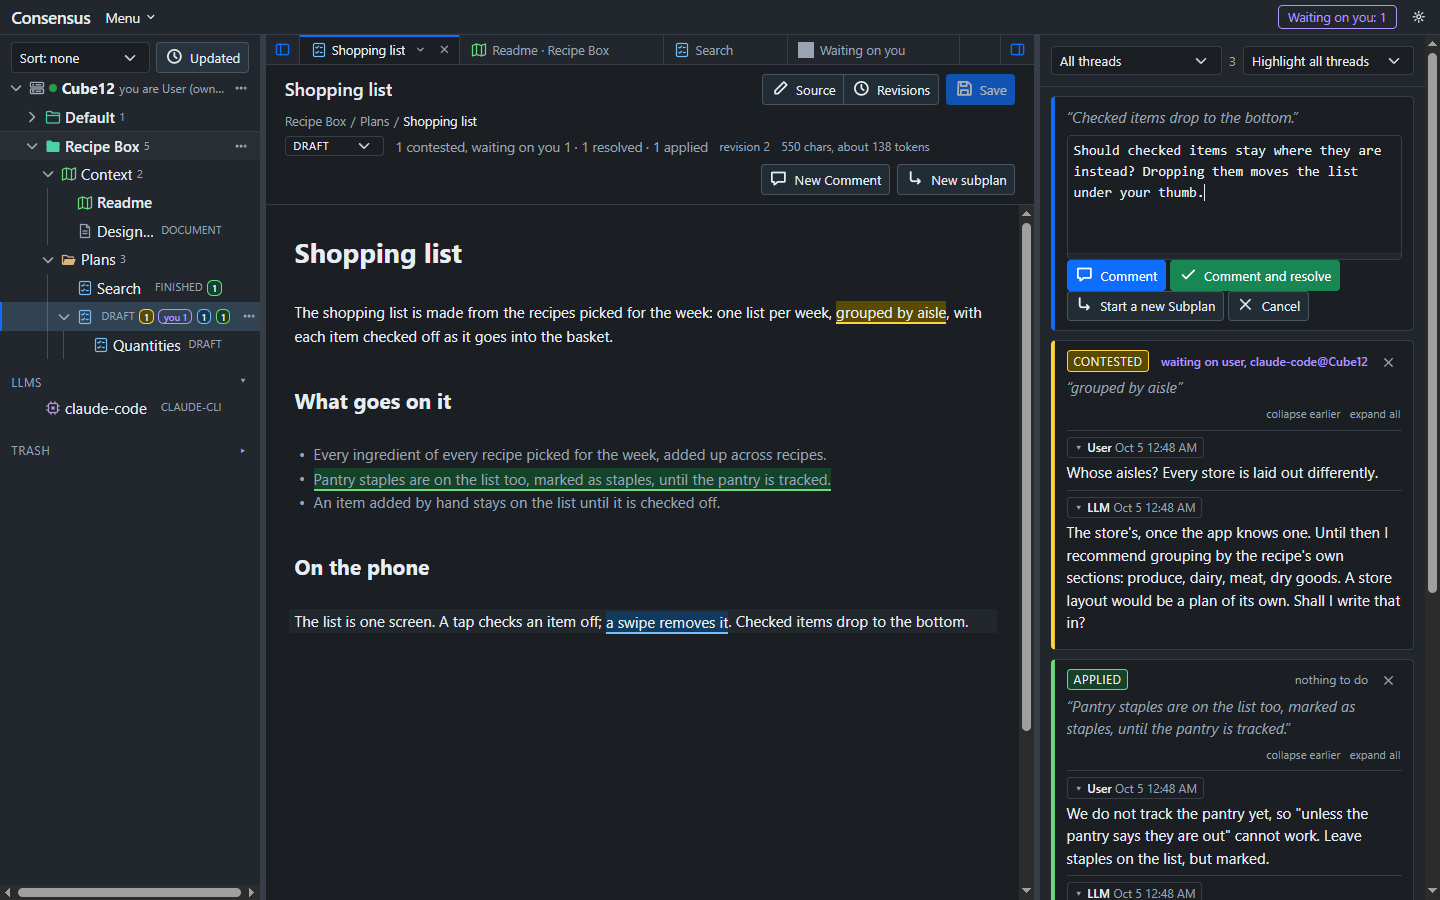
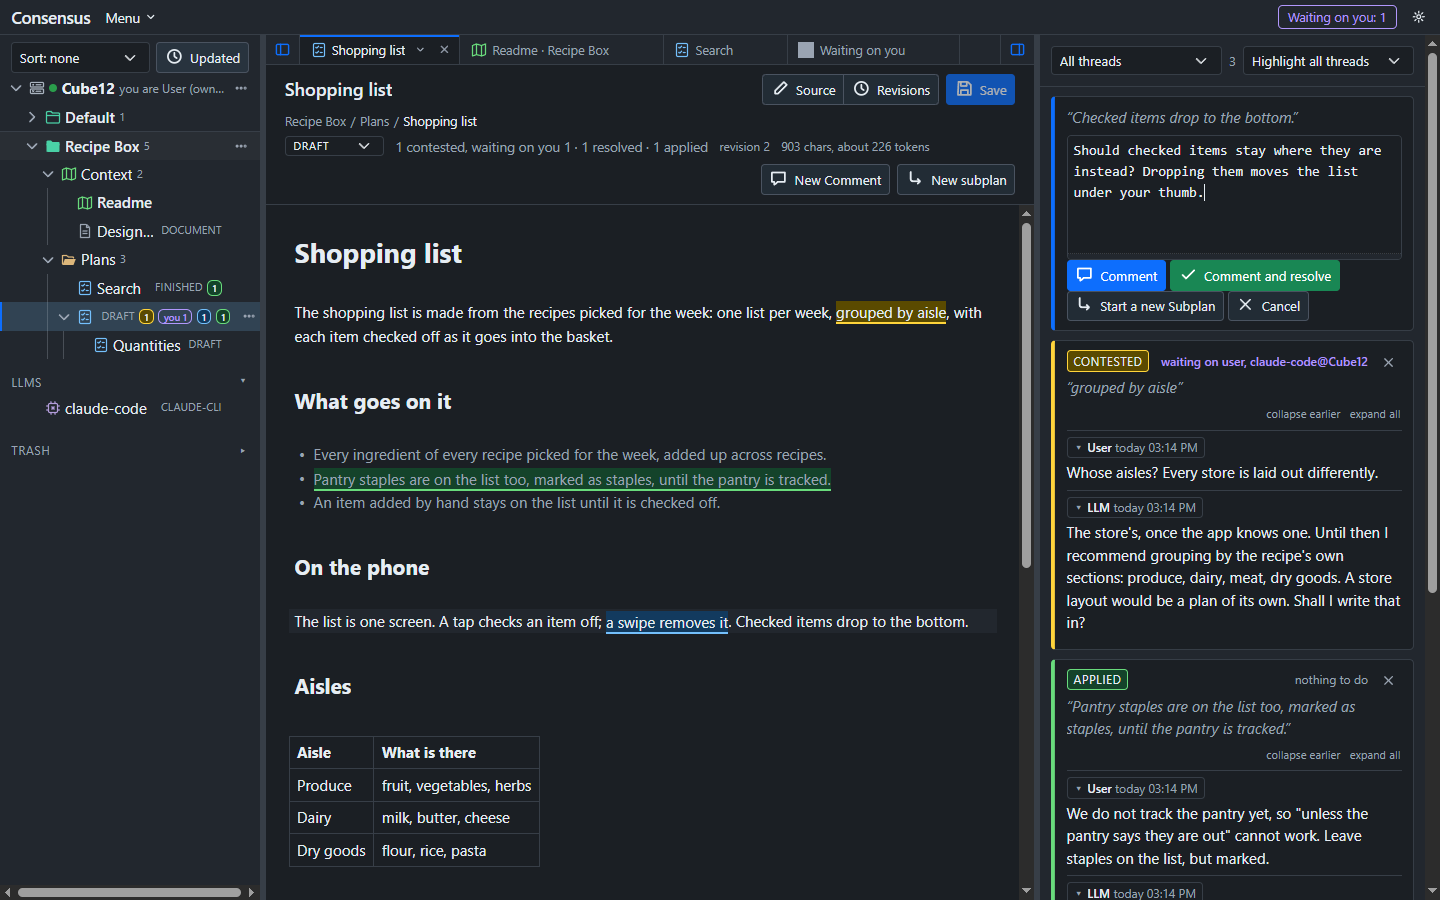
Documentation: a table, a link and an image in the pictures
The demo plan of the documentation (the shopping list) gains an Aisles section with a table, a sentence with a link and an image, so the guide's pictures show them rendered in place by the editor; the demo export is reseeded; the edit picture is scrolled to the heading the cursor is on, so the table, the link and the image below it are in it. The pictures are retaken in both themes and the site republished.

diff --git a/bin/docs.js b/bin/docs.js
@@ -259,7 +259,16 @@ const SHOPPING_LIST = '# Shopping list\n\n'
 	+ '- Pantry staples are left off unless the pantry says they are out.\n'
 	+ '- An item added by hand stays on the list until it is checked off.\n\n'
 	+ '## On the phone\n\n'
-	+ 'The list is one screen. A tap checks an item off; a swipe removes it. Checked items drop to the bottom.\n';
+	+ 'The list is one screen. A tap checks an item off; a swipe removes it. Checked items drop to the bottom.\n\n'
+	// a table, a link and an image, so the pictures show them rendered in place (plan Markdown Editor)
+	+ '## Aisles\n\n'
+	+ '| Aisle | What is there |\n'
+	+ '| --- | --- |\n'
+	+ '| Produce | fruit, vegetables, herbs |\n'
+	+ '| Dairy | milk, butter, cheese |\n'
+	+ '| Dry goods | flour, rice, pasta |\n\n'
+	+ 'The aisles come from the store\'s own map, [published on its site](https://example.com/store/map); until the app knows one, the recipe\'s sections stand in.\n\n'
+	+ '![The Consensus mark](/img/mark.svg)\n';
 
 const SHOPPING_LIST_APPLIED = SHOPPING_LIST.replace(
 	'- Pantry staples are left off unless the pantry says they are out.',
@@ -479,7 +488,8 @@ const PAGE_PICTURES = [
 			// The threads pane is hidden, so the editor has the room; the cursor on the second heading shows its source
 			// (the Live Preview, plan Markdown Editor, Step 5).
 			await Page.Click( '#threads-toggle' );
-			await Page.Evaluate( '( function () { let view = window.CodeMirror6.EditorView.findFromDOM( document.querySelector( "#editor .cm-editor" ) ); let at = view.state.doc.toString().indexOf( "## What goes on it" ) + 3; view.dispatch( { selection: { anchor: at } } ); view.focus(); return true; } )()' );
+			await Page.Evaluate( '( function () { let view = window.CodeMirror6.EditorView.findFromDOM( document.querySelector( "#editor .cm-editor" ) ); let at = view.state.doc.toString().indexOf( "## What goes on it" ) + 3; view.dispatch( { selection: { anchor: at }, effects: window.CodeMirror6.EditorView.scrollIntoView( at, { y: "start" } ) } ); view.focus(); return true; } )()' );
+			// scrolled so the heading leads and the table, the link and the image below are in the picture
 			await wait( 500 );
 			let file = await capture( Page, Folder, 'edit', Theme );
 			await Page.Click( '#threads-toggle' );

diff --git a/.consensus/content/pln-fei-7kd-j7w/content.md b/.consensus/content/pln-fei-7kd-j7w/content.md
@@ -2,7 +2,5 @@
 
 - The default view state of a thread should be "collapse earlier".
 - When anchoring text (initially or on re-anchor), if the selection extends to the end of a line, Consensus anchors ALL of the text from the beginning of the selection to the end of the document. It should only anchor on the selected text.
-- Selected text in CodeMirror source mode does not display the selection background in the text.
-
-
+- Selected text in CodeMirror does not display the selection background in the text. The selection background does appear when the selection is across lines. Selection is not visible within the same line. It seems that the "current line" background overwrites the selection background.
 

diff --git a/.consensus/content/pln-j27-bzi-j77/content.md b/.consensus/content/pln-j27-bzi-j77/content.md
@@ -1,3 +1,9 @@
-# Printing and Preview
+# Printing and Reporting
 
-There will be times when we want to "flatten" a plan, its subplans, and all threads into a single coherent document. This can be used as a record of everything that was done on both sides (User and LLM).
+There will be times when we want to "flatten" a plan, its subplans, and all its threads into a single coherent document, suitable for reporting, review, and printing.
+- This can be used as a record of everything that was done on both sides (User and LLM).
+- This rendering includes only the final revisions of plans/documents.
+- Rendering should be into a PDF file.
+- The output should detail all owners and timestamps.
+
+

diff --git a/.consensus/content/pln-fei-7kd-j7w/revisions/0005.md b/.consensus/content/pln-fei-7kd-j7w/revisions/0005.md
@@ -1,0 +1,6 @@
+# UI Tweaks VIII
+
+- The default view state of a thread should be "collapse earlier".
+- When anchoring text (initially or on re-anchor), if the selection extends to the end of a line, Consensus anchors ALL of the text from the beginning of the selection to the end of the document. It should only anchor on the selected text.
+- Selected text in CodeMirror does not display the selection background in the text. The selection background does appear when the selection is across lines. Selection is not visible within the same line. It seems that the "current line" background overwrites the selection background.
+

diff --git a/.consensus/content/pln-fei-7kd-j7w/revisions/0004.md b/.consensus/content/pln-fei-7kd-j7w/revisions/0004.md
@@ -1,0 +1,8 @@
+# UI Tweaks VIII
+
+- The default view state of a thread should be "collapse earlier".
+- When anchoring text (initially or on re-anchor), if the selection extends to the end of a line, Consensus anchors ALL of the text from the beginning of the selection to the end of the document. It should only anchor on the selected text.
+- Selected text in CodeMirror does not display the selection background in the text. Or it uses the same color as the editor background.
+
+
+

diff --git a/.consensus/content/pln-j27-bzi-j77/revisions/0005.md b/.consensus/content/pln-j27-bzi-j77/revisions/0005.md
@@ -1,0 +1,9 @@
+# Printing and Reporting
+
+There will be times when we want to "flatten" a plan, its subplans, and all its threads into a single coherent document, suitable for reporting, review, and printing.
+- This can be used as a record of everything that was done on both sides (User and LLM).
+- This rendering includes only the final revisions of plans/documents.
+- Rendering should be into a PDF file.
+- The output should detail all owners and timestamps.
+
+

diff --git a/.consensus/content/pln-j27-bzi-j77/revisions/0004.md b/.consensus/content/pln-j27-bzi-j77/revisions/0004.md
@@ -1,0 +1,7 @@
+# Printing and Reporting
+
+There will be times when we want to "flatten" a plan, its subplans, and all its threads into a single coherent document, suitable for reporting, review, and printing.
+- This can be used as a record of everything that was done on both sides (User and LLM).
+- This rendering includes only the final revisions of plans/documents.
+- Rendering should be into a PDF file.
+- The output should detail all owners and timestamps.

diff --git a/.consensus/content/pln-j27-bzi-j77/revisions/0003.md b/.consensus/content/pln-j27-bzi-j77/revisions/0003.md
@@ -1,0 +1,6 @@
+# Printing and Reporting
+
+There will be times when we want to "flatten" a plan, its subplans, and all its threads into a single coherent document, suitable for reporting, review, and printing.
+- This can be used as a record of everything that was done on both sides (User and LLM).
+- This rendering includes only the final revisions of plans/documents.
+- Rendering should be into a PDF file.
